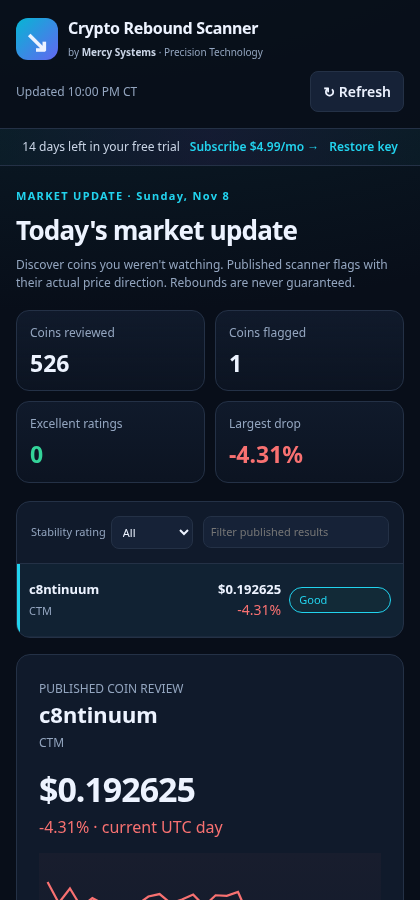
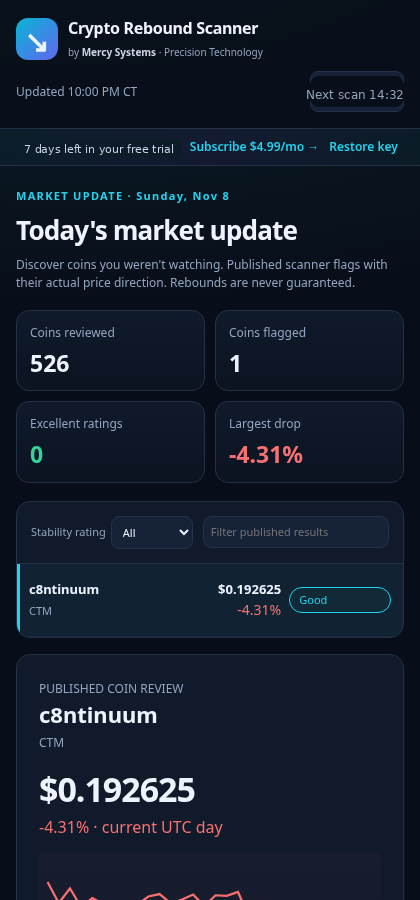
CRS: 7-day trial, introductory price, Next scan countdown previews
Update Crypto Rebound Scanner product page and homepage card to a
7-day free trial and $4.99/month introductory price. Replace the
Refresh button in static app preview images with a Next scan
countdown, and quiet-refresh release.json checksums for the rebuilt
1.0.0 Android and Windows downloads.

Changed region(s): [[0.7119, 0.0622, 0.9595, 0.1244], [0.0619, 0.1556, 0.4333, 0.1867]]

diff --git a/public/crypto/terms.html b/public/crypto/terms.html
@@ -1,1 +1,1 @@
-<!doctype html><html lang="en"><head><meta charset="utf-8"><meta name="viewport" content="width=device-width,initial-scale=1"><title>Crypto Rebound Scanner — Terms | Mercy Systems</title><link rel="stylesheet" href="/crypto/site.css"></head><body><main class="legal"><a href="/crypto/">← Crypto Rebound Scanner</a><h1>Terms &amp; acceptable use</h1><p>Effective for the public Crypto Rebound Scanner release. Seek independent advice for your situation.</p><h2>Publication, not personalized investment advice</h2><p>Market commentary for informational purposes only. Not personalized investment advice.</p><p>Crypto Rebound Scanner publishes the same general market commentary to all subscribers. It does not tailor advice to your holdings, goals, finances, or circumstances. It does not execute trades, provide wallets, hold funds, or act as an exchange. Prices and analysis may be delayed, incomplete, or inaccurate. No issuer pays to be featured.</p><h2>Risk acknowledgment</h2><p>Coins that drop sharply may rebound, but can also continue falling or become worthless. A stability rating is not a measure of safety, suitability, or future returns. There are no promised profits or guaranteed rebounds. You are solely responsible for your decisions and for seeking appropriate independent professional advice.</p><h2>Eligibility, trial, and subscription</h2><p>Subscriptions are for US residents aged 18 or older. A 14-day free trial begins when an identifiable device first connects, with no card and no automatic charge at the end. After the trial, continued access requires a $4.99 monthly subscription, plus any applicable tax disclosed in checkout. The subscription renews monthly until canceled. There is no second Stripe trial period when subscribing.</p><p>One subscription permits one Android device and one Windows device, for your use only. The same unlock key can activate the two permitted platform slots. Do not share, sell, or publish keys. Contact support if a legitimate device replacement is required. No system can fully prevent identifier spoofing or resets.</p><h2>Cancellation and access</h2><p>Use Manage subscription in the app to cancel future renewals through Stripe. Uninstalling does not cancel billing. Scheduled end-of-period cancellation retains access until the paid period ends. Immediate cancellation, an expired period, failed payment, refund, or dispute can suspend access. Applicable consumer rights are not limited; contact Mercy Systems about billing errors and refund requests.</p><h2>License and acceptable use</h2><p>You receive a limited, personal, non-exclusive, non-transferable right to view the publication using the approved apps. Do not bypass trials, spoof device identity, defeat access controls, scrape or redistribute the publication, resell access, overload the service, upload malicious material, or reverse engineer proprietary technology except where such a restriction is prohibited by law. No license to the research engine or trade-secret methodology is granted. Third-party rights remain with their respective owners.</p><h2>Availability and limitation of liability</h2><p>To the extent permitted by law, the service is provided as available without a warranty of accuracy, continuous operation, merchantability, fitness for a purpose, or financial results. Mercy Systems is not liable for investment losses or indirect, incidental, consequential, or special damages arising from reliance on the publication. Nothing excludes liability or statutory rights that cannot legally be excluded. Any financial liability cap and governing-law provisions must be reviewed and finalized by counsel before launch.</p><h2>Indemnity</h2><p>To the extent permitted by law, you agree to indemnify and hold Mercy Systems harmless against third-party claims, losses, and reasonable expenses caused by your unlawful use, unauthorized redistribution, or material violation of these terms. This does not require indemnification for Mercy Systems' own unlawful conduct or non-waivable obligations.</p><h2>Changes and contact</h2><p>Material service or price changes will be disclosed before they apply as required by law. <a href="/crypto/privacy.html">Privacy notice</a>. Questions, cancellation help, or device replacements: <a href="/#contact">Mercy Systems contact</a>.</p></main></body></html>
+<!doctype html><html lang="en"><head><meta charset="utf-8"><meta name="viewport" content="width=device-width,initial-scale=1"><title>Crypto Rebound Scanner — Terms | Mercy Systems</title><link rel="stylesheet" href="/crypto/site.css"></head><body><main class="legal"><a href="/crypto/">← Crypto Rebound Scanner</a><h1>Terms &amp; acceptable use</h1><p>Effective for the public Crypto Rebound Scanner release. Seek independent advice for your situation.</p><h2>Publication, not personalized investment advice</h2><p>Market commentary for informational purposes only. Not personalized investment advice.</p><p>Crypto Rebound Scanner publishes the same general market commentary to all subscribers. It does not tailor advice to your holdings, goals, finances, or circumstances. It does not execute trades, provide wallets, hold funds, or act as an exchange. Prices and analysis may be delayed, incomplete, or inaccurate. No issuer pays to be featured.</p><h2>Risk acknowledgment</h2><p>Coins that drop sharply may rebound, but can also continue falling or become worthless. A stability rating is not a measure of safety, suitability, or future returns. There are no promised profits or guaranteed rebounds. You are solely responsible for your decisions and for seeking appropriate independent professional advice.</p><h2>Eligibility, trial, and subscription</h2><p>Subscriptions are for US residents aged 18 or older. A 7-day free trial begins when an identifiable device first connects, with no card and no automatic charge at the end. After the trial, continued access requires a $4.99 monthly subscription, plus any applicable tax disclosed in checkout. The subscription renews monthly until canceled. There is no second Stripe trial period when subscribing.</p><p>One subscription permits one Android device and one Windows device, for your use only. The same unlock key can activate the two permitted platform slots. Do not share, sell, or publish keys. Contact support if a legitimate device replacement is required. No system can fully prevent identifier spoofing or resets.</p><h2>Cancellation and access</h2><p>Use Manage subscription in the app to cancel future renewals through Stripe. Uninstalling does not cancel billing. Scheduled end-of-period cancellation retains access until the paid period ends. Immediate cancellation, an expired period, failed payment, refund, or dispute can suspend access. Applicable consumer rights are not limited; contact Mercy Systems about billing errors and refund requests.</p><h2>License and acceptable use</h2><p>You receive a limited, personal, non-exclusive, non-transferable right to view the publication using the approved apps. Do not bypass trials, spoof device identity, defeat access controls, scrape or redistribute the publication, resell access, overload the service, upload malicious material, or reverse engineer proprietary technology except where such a restriction is prohibited by law. No license to the research engine or trade-secret methodology is granted. Third-party rights remain with their respective owners.</p><h2>Availability and limitation of liability</h2><p>To the extent permitted by law, the service is provided as available without a warranty of accuracy, continuous operation, merchantability, fitness for a purpose, or financial results. Mercy Systems is not liable for investment losses or indirect, incidental, consequential, or special damages arising from reliance on the publication. Nothing excludes liability or statutory rights that cannot legally be excluded. Any financial liability cap and governing-law provisions must be reviewed and finalized by counsel before launch.</p><h2>Indemnity</h2><p>To the extent permitted by law, you agree to indemnify and hold Mercy Systems harmless against third-party claims, losses, and reasonable expenses caused by your unlawful use, unauthorized redistribution, or material violation of these terms. This does not require indemnification for Mercy Systems' own unlawful conduct or non-waivable obligations.</p><h2>Changes and contact</h2><p>Material service or price changes will be disclosed before they apply as required by law. <a href="/crypto/privacy.html">Privacy notice</a>. Questions, cancellation help, or device replacements: <a href="/#contact">Mercy Systems contact</a>.</p></main></body></html>

diff --git a/public/crypto/privacy.html b/public/crypto/privacy.html
@@ -1,1 +1,1 @@
-<!doctype html><html lang="en"><head><meta charset="utf-8"><meta name="viewport" content="width=device-width,initial-scale=1"><title>Crypto Rebound Scanner — Privacy | Mercy Systems</title><link rel="stylesheet" href="/crypto/site.css"></head><body><main class="legal"><a href="/crypto/">← Crypto Rebound Scanner</a><h1>Privacy notice</h1><p>Effective November 8, 2026 (America/Chicago).</p><h2>Who operates this service</h2><p>Crypto Rebound Scanner is a Mercy Systems market-research publication. This notice covers its Android and Windows apps, published-results server, and product page.</p><h2>Device trial and subscription records</h2><p>The app hashes an operating-system identifier with its app identity before sending it over HTTPS. Android uses its app-scoped Android ID; Windows uses MachineGuid. The raw identifier and your personal computer name are not sent. The server applies an additional keyed hash and stores the resulting device reference, claimed device platform, first-use time, and subscription-device allocation. This is used to keep the 14-day trial from restarting after ordinary reinstalls and to limit one subscription to one Android device and one Windows device.</p><p>The first app launch starts the device trial without a payment card or email address. Deleting local files does not delete the server's trial record. Factory resets, OS reinstalls, identifier changes, and modified clients can weaken this protection.</p><h2>Payments and unlock-key delivery</h2><p>If you subscribe, Stripe collects payment and billing information on its hosted checkout. Mercy Systems does not receive your full card number. We keep the Stripe subscription/customer references, access state, billing-period end, and unlock-key verification hash. Your checkout email is used to send your key through Brevo. Queued key-delivery content is encrypted at rest. Protect the key as you would a password.</p><h2>Technical information</h2><p>Hosting and network providers may process IP addresses and connection information to deliver and secure the service. The API uses short-lived access tokens. We do not include advertising trackers or third-party analytics in these apps or the product page. The Android app requests network access, not contacts, location, photos, or raw hardware identifiers.</p><h2>Sharing and retention</h2><p>DigitalOcean hosts the scanner; Stripe processes billing; Brevo delivers subscription email; CoinMarketCap provides public market data and does not need your device identity. These providers may process information under their own terms. Records are kept only as reasonably needed for access control, billing, security, dispute handling, legal obligations, and backups. Minimal pseudonymous anti-abuse records may be retained separately when legally permitted. Operational retention periods must be finalized before launch.</p><h2>Your choices and questions</h2><p>You may stop using or uninstall the app. Cancel future subscription renewals using Manage subscription in the app. Uninstalling alone does not cancel a subscription. For access, correction, deletion, or device replacement requests, use <a href="/#contact">Mercy Systems contact details</a>. We will review requests under applicable law and explain any required retention. US-only subscriptions; the service is intended for adults.</p></main></body></html>
+<!doctype html><html lang="en"><head><meta charset="utf-8"><meta name="viewport" content="width=device-width,initial-scale=1"><title>Crypto Rebound Scanner — Privacy | Mercy Systems</title><link rel="stylesheet" href="/crypto/site.css"></head><body><main class="legal"><a href="/crypto/">← Crypto Rebound Scanner</a><h1>Privacy notice</h1><p>Effective November 8, 2026 (America/Chicago).</p><h2>Who operates this service</h2><p>Crypto Rebound Scanner is a Mercy Systems market-research publication. This notice covers its Android and Windows apps, published-results server, and product page.</p><h2>Device trial and subscription records</h2><p>The app hashes an operating-system identifier with its app identity before sending it over HTTPS. Android uses its app-scoped Android ID; Windows uses MachineGuid. The raw identifier and your personal computer name are not sent. The server applies an additional keyed hash and stores the resulting device reference, claimed device platform, first-use time, and subscription-device allocation. This is used to keep the 7-day trial from restarting after ordinary reinstalls and to limit one subscription to one Android device and one Windows device.</p><p>The first app launch starts the device trial without a payment card or email address. Deleting local files does not delete the server's trial record. Factory resets, OS reinstalls, identifier changes, and modified clients can weaken this protection.</p><h2>Payments and unlock-key delivery</h2><p>If you subscribe, Stripe collects payment and billing information on its hosted checkout. Mercy Systems does not receive your full card number. We keep the Stripe subscription/customer references, access state, billing-period end, and unlock-key verification hash. Your checkout email is used to send your key through Brevo. Queued key-delivery content is encrypted at rest. Protect the key as you would a password.</p><h2>Technical information</h2><p>Hosting and network providers may process IP addresses and connection information to deliver and secure the service. The API uses short-lived access tokens. We do not include advertising trackers or third-party analytics in these apps or the product page. The Android app requests network access, not contacts, location, photos, or raw hardware identifiers.</p><h2>Sharing and retention</h2><p>DigitalOcean hosts the scanner; Stripe processes billing; Brevo delivers subscription email; CoinMarketCap provides public market data and does not need your device identity. These providers may process information under their own terms. Records are kept only as reasonably needed for access control, billing, security, dispute handling, legal obligations, and backups. Minimal pseudonymous anti-abuse records may be retained separately when legally permitted. Operational retention periods must be finalized before launch.</p><h2>Your choices and questions</h2><p>You may stop using or uninstall the app. Cancel future subscription renewals using Manage subscription in the app. Uninstalling alone does not cancel a subscription. For access, correction, deletion, or device replacement requests, use <a href="/#contact">Mercy Systems contact details</a>. We will review requests under applicable law and explain any required retention. US-only subscriptions; the service is intended for adults.</p></main></body></html>

diff --git a/public/crypto/index.html b/public/crypto/index.html
@@ -1,8 +1,8 @@
 <!doctype html><html lang="en"><head><meta charset="utf-8"><meta name="viewport" content="width=device-width,initial-scale=1"><meta name="description" content="Crypto Rebound Scanner by Mercy Systems. Published cryptocurrency market research covering sharp drops that may rebound."><title>Crypto Rebound Scanner | Mercy Systems</title><link rel="stylesheet" href="/crypto/site.css"></head><body><header><a href="/">MERCY SYSTEMS <small>PRECISION TECHNOLOGY</small></a><nav><a href="#research">The research</a><a href="#pricing">Pricing</a><a href="/#contact">Support</a></nav></header>
 <main><section class="hero"><div class="eyebrow">CRYPTOCURRENCY MARKET RESEARCH</div><div class="product-brand"><img class="product-icon" src="/crypto/assets/crs-icon.png" alt="" width="80" height="80"><h1>Crypto Rebound Scanner</h1></div><p class="lead">Discover the sharp drops.<br><span>Read the bigger picture.</span></p><p>One published market update. A broad sweep of the crypto market. Coins that fell sharply and may rebound — shown with a plain stability rating.</p>
-<div class="downloads" aria-label="App downloads"><button id="android" disabled>↓ Download for Android</button><button id="windows" disabled>↓ Download for Windows</button></div><p class="fine">14-day device-based trial · No card required · Then $4.99/month<br>One Android device + one Windows device per subscription. US-only subscriptions.</p><p class="release" id="release">Loading download links…</p><p class="fine founder-note">Developed by Mercy Systems, whose founder published the Hebel Sparse Exact-Scale Method in 2026.</p></section>
+<div class="downloads" aria-label="App downloads"><button id="android" disabled>↓ Download for Android</button><button id="windows" disabled>↓ Download for Windows</button></div><p class="fine">7-day device-based trial · No card required · Then $4.99/month introductory price<br>One Android device + one Windows device per subscription. US-only subscriptions.</p><p class="release" id="release">Loading download links…</p><p class="fine founder-note">Developed by Mercy Systems, whose founder published the Hebel Sparse Exact-Scale Method in 2026.</p></section>
 <section class="showcase"><img src="/crypto/assets/desktop-design.png" alt="Crypto Rebound Scanner desktop app"><p class="fine">Live app layout. Results change with each published market update.</p></section>
-<section id="research" class="grid"><article><span>01</span><h2>A wider view</h2><p>Reviews up to 1,000 coins ranked by market capitalization, not a list of favorites. Stablecoins, coins with insufficient daily history, and coins below $1 million in daily trading volume are excluded.</p></article><article><span>02</span><h2>Published, not personalized</h2><p>Every subscriber gets the same results, updated every 15 minutes. Apps download saved publications; your refresh never triggers a scan.</p></article><article><span>03</span><h2>Context, not a promise</h2><p>See each qualifying coin's drop, stability rating, and price trend. A stability rating is not a prediction of future returns. No trading, wallets, or buy/sell instructions.</p></article></section>
+<section id="research" class="grid"><article><span>01</span><h2>A wider view</h2><p>Reviews up to 1,000 coins ranked by market capitalization, not a list of favorites. Stablecoins, coins with insufficient daily history, and coins below $1 million in daily trading volume are excluded.</p></article><article><span>02</span><h2>Published, not personalized</h2><p>Every subscriber gets the same results, updated every 15 minutes. Apps update automatically after each published scan; opening the app never triggers a scan.</p></article><article><span>03</span><h2>Context, not a promise</h2><p>See each qualifying coin's drop, stability rating, and price trend. A stability rating is not a prediction of future returns. No trading, wallets, or buy/sell instructions.</p></article></section>
 <section class="phone"><img src="/crypto/assets/android-design.png" alt="Crypto Rebound Scanner phone layout"><div><div class="eyebrow">WINDOWS + ANDROID</div><h2>Research where you are.</h2><p>The same published commentary on your computer and phone. One subscription, one device of each type.</p><p>Start the free trial by opening the app. No card, no automatic charge when the trial ends. Subscribe through Stripe only if you choose to continue.</p><p>Deleting the app or changing an email does not restart a trial on the same identifiable device. Device identifiers can change after a factory reset, OS reinstall, or signing-key change; no anti-abuse system is perfect.</p></div></section>
-<section id="pricing" class="price"><div class="eyebrow">ONE SIMPLE PLAN</div><h2>$4.99 <small>/ month</small></h2><p>14-day free trial. No card until you subscribe.</p><p>One Android device and one Windows device. Cancel future renewals through Manage subscription in the app. Access remains through the paid period unless immediately canceled, refunded, or payment fails. No investment outcomes are guaranteed.</p><a href="#android">Get the apps ↑</a></section>
+<section id="pricing" class="price"><div class="eyebrow">ONE SIMPLE PLAN</div><h2>$4.99 <small>/ month</small></h2><p>Introductory price. 7-day free trial. No card until you subscribe.</p><p>One Android device and one Windows device. Cancel future renewals through Manage subscription in the app. Access remains through the paid period unless immediately canceled, refunded, or payment fails. No investment outcomes are guaranteed.</p><a href="#android">Get the apps ↑</a></section>
 <section class="risk"><h2>Important risk notice</h2><p>Market commentary for informational purposes only. Not personalized investment advice.</p><p>Cryptocurrency prices are volatile and can lose substantial or all value. A hard drop may continue instead of rebounding. A stability rating is not safety or a forecast. Data may be delayed, incomplete, or inaccurate. The service does not hold funds, execute trades, or make recommendations tailored to you.</p><p>Market data source: CoinMarketCap. Third-party names do not imply endorsement.</p></section></main><footer><b>Mercy Systems · Precision Technology</b><p><a href="/crypto/privacy.html">Privacy</a> · <a href="/crypto/terms.html">Terms &amp; acceptable use</a> · <a href="/#contact">Contact &amp; device replacement</a></p><small>© 2026 Mercy Systems. All rights reserved.</small></footer><script src="/crypto/site.js"></script></body></html>

diff --git a/public/index.html b/public/index.html
@@ -60,7 +60,7 @@
 </aside>
 </article>
 <p class="disclaimer"><strong>Diagnostic tool only.</strong> AMCDT helps engineers find and understand differences between model and code outputs. It is not a functional-safety tool. See the <a href="/amcdt/license.html">AMCDT License Agreement</a>.</p>
-<div class="next-card"><a class="next-icon" href="/crypto" tabindex="-1" aria-hidden="true"><img src="/crypto/assets/crs-icon.png" alt="" width="64" height="64" loading="lazy"></a><div><p class="next-title">Crypto Rebound Scanner by Mercy Systems</p><p>Published crypto market research for Android and Windows, with clear price changes and a stability rating. 14-day free trial, no card required; then $4.99/month. Rebounds are never guaranteed.</p></div><a class="text-link" href="/crypto">Explore the scanner <span aria-hidden="true">→</span></a></div>
+<div class="next-card"><a class="next-icon" href="/crypto" tabindex="-1" aria-hidden="true"><img src="/crypto/assets/crs-icon.png" alt="" width="64" height="64" loading="lazy"></a><div><p class="next-title">Crypto Rebound Scanner by Mercy Systems</p><p>Published crypto market research for Android and Windows, with clear price changes and a stability rating. 7-day free trial, no card required; then $4.99/month introductory price. Rebounds are never guaranteed.</p></div><a class="text-link" href="/crypto">Explore the scanner <span aria-hidden="true">→</span></a></div>
 </div>
 </section>
 

diff --git a/public/crypto/success.html b/public/crypto/success.html
@@ -1,1 +1,1 @@
-<!doctype html><html lang="en"><head><meta charset="utf-8"><meta name="viewport" content="width=device-width,initial-scale=1"><title>Thank you | Crypto Rebound Scanner</title><link rel="stylesheet" href="/crypto/site.css"></head><body><main class="legal"><h1>Thank you.</h1><p>Payment confirmation is being processed securely. This page alone does not unlock access.</p><p>Return to the app and tap Refresh. Your unlock key will be emailed after verified payment; use it on one Android device and one Windows device. If it has not arrived, check spam or contact Mercy Systems.</p><a href="/crypto/">Back to Crypto Rebound Scanner</a></main></body></html>
+<!doctype html><html lang="en"><head><meta charset="utf-8"><meta name="viewport" content="width=device-width,initial-scale=1"><title>Thank you | Crypto Rebound Scanner</title><link rel="stylesheet" href="/crypto/site.css"></head><body><main class="legal"><h1>Thank you.</h1><p>Payment confirmation is being processed securely. This page alone does not unlock access.</p><p>Return to the app; it updates automatically after each published scan. Your unlock key will be emailed after verified payment; use it on one Android device and one Windows device. If it has not arrived, check spam or contact Mercy Systems.</p><a href="/crypto/">Back to Crypto Rebound Scanner</a></main></body></html>
